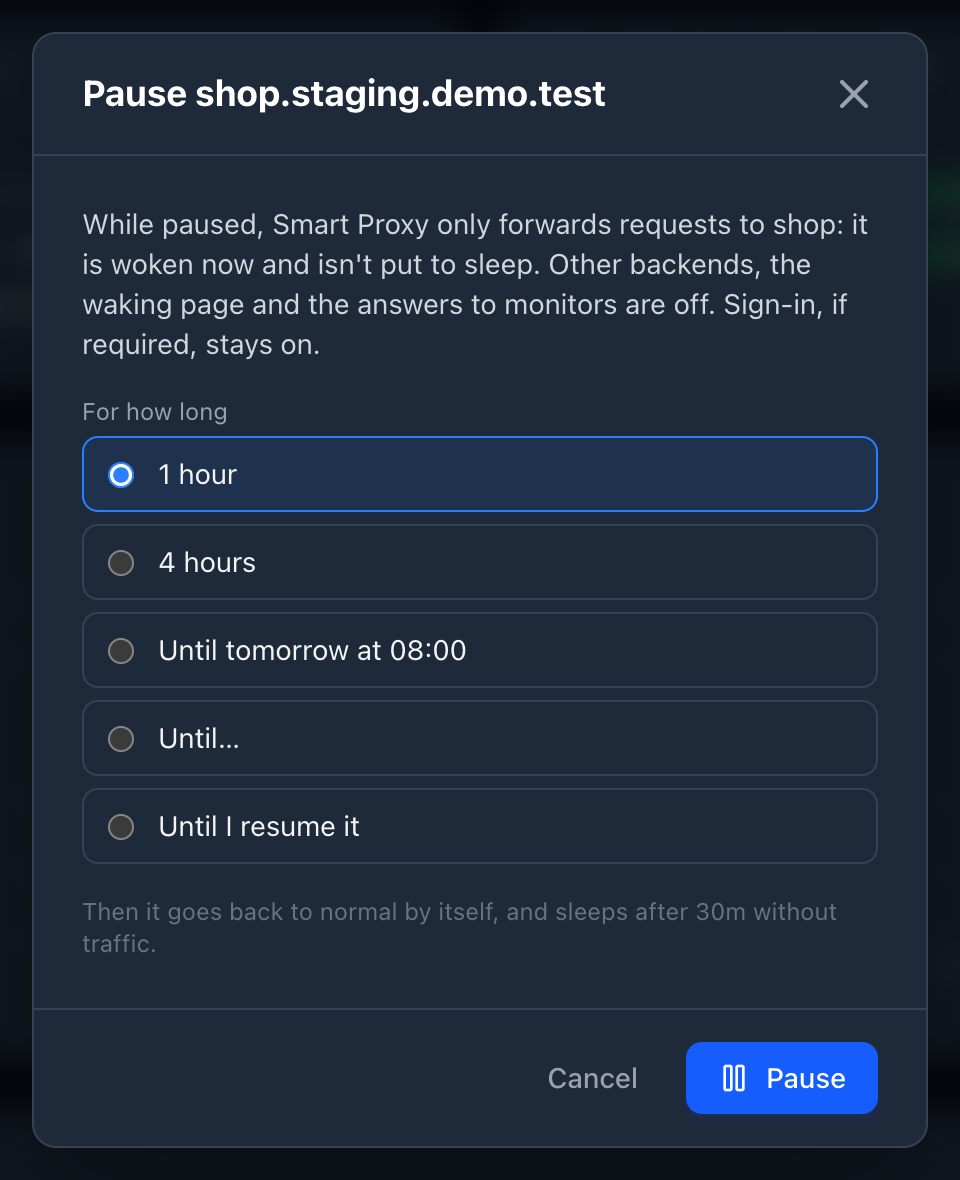
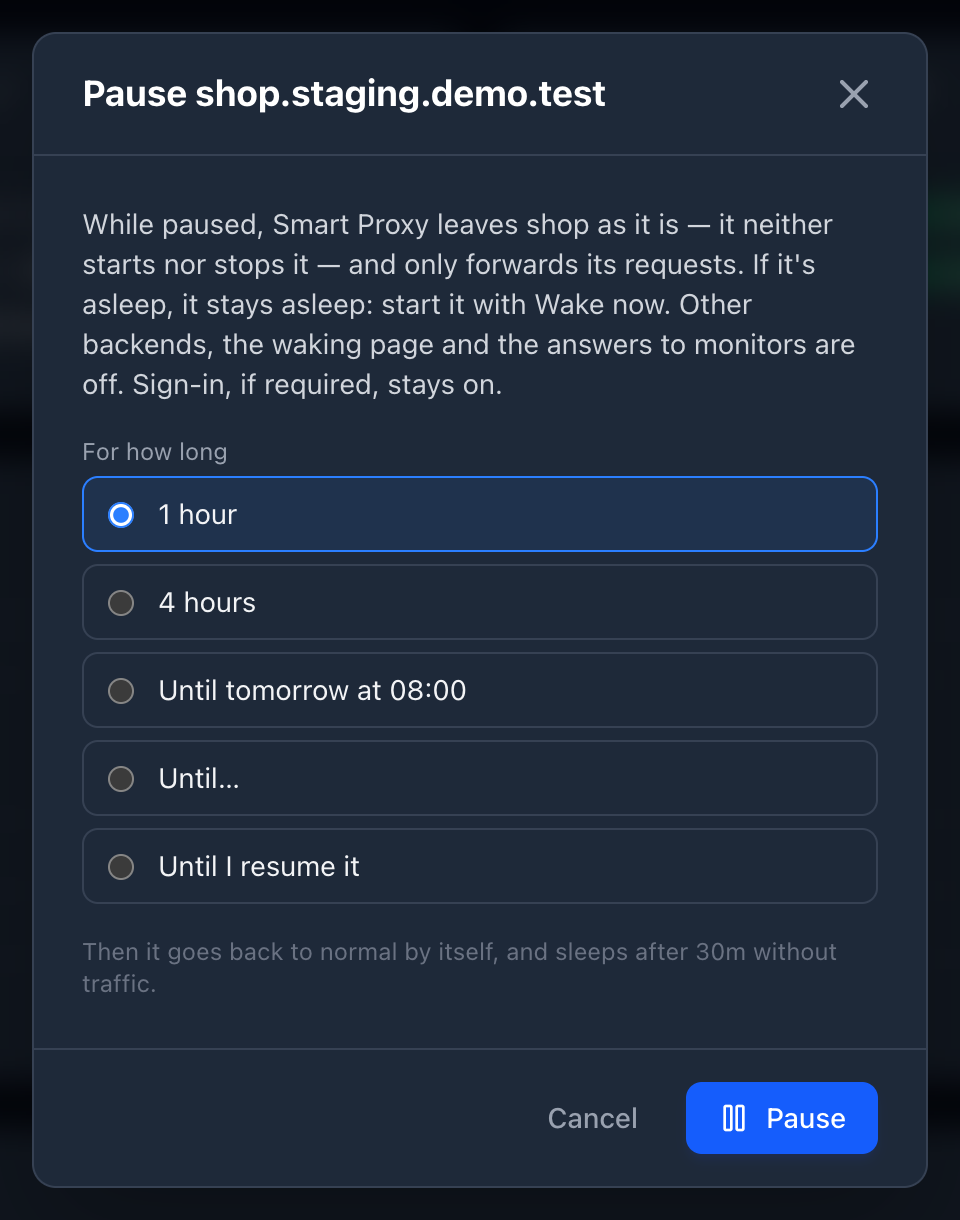
Release 2.8.2 (chart 0.10.2): a pause leaves the application as it is

diff --git a/charts/smart-proxy/README.md b/charts/smart-proxy/README.md
@@ -44,7 +44,7 @@ Common values (see [`values.yaml`](values.yaml) for the full, commented list and
 
 ## Upgrading
 
-See the [upgrade guide](https://ivseb.github.io/smart-proxy/upgrading/). From 0.10.0 to 0.10.1: drop-in. From 0.9.x to 0.10.0: drop-in; with `auth.mode: openshift` the oauth-proxy sidecar is gone (sign-in is built into Smart Proxy). From 0.8.x to 0.9.0: drop-in. From 0.7.x to 0.8.0: drop-in; the uptime history is kept in a new ConfigMap, `<release>-uptime`. From 0.6.x to 0.7.0: drop-in; the image has no shell anymore (use a debug container to troubleshoot). From 0.5.x to 0.6.0: drop-in; deleted routes are kept for 30 days in a new ConfigMap, `<release>-deleted-routes`. From 0.4.x to 0.5.0: Smart Proxy creates its own Secret, `<release>-state` (the chart grants access to it). From 0.3.x to 0.4.0: patched resources outside Smart Proxy's namespace now reach it through a stand-in Service created there (the chart grants the new permissions; on OpenShift installing needs cluster-admin for `endpoints/restricted`). From 0.2.x to 0.3.0: uptime monitors no longer keep applications awake (`ignore.defaultUserAgents: false` restores the old behaviour).
+See the [upgrade guide](https://ivseb.github.io/smart-proxy/upgrading/). From 0.10.1 to 0.10.2: drop-in; a pause no longer wakes the application. From 0.10.0 to 0.10.1: drop-in. From 0.9.x to 0.10.0: drop-in; with `auth.mode: openshift` the oauth-proxy sidecar is gone (sign-in is built into Smart Proxy). From 0.8.x to 0.9.0: drop-in. From 0.7.x to 0.8.0: drop-in; the uptime history is kept in a new ConfigMap, `<release>-uptime`. From 0.6.x to 0.7.0: drop-in; the image has no shell anymore (use a debug container to troubleshoot). From 0.5.x to 0.6.0: drop-in; deleted routes are kept for 30 days in a new ConfigMap, `<release>-deleted-routes`. From 0.4.x to 0.5.0: Smart Proxy creates its own Secret, `<release>-state` (the chart grants access to it). From 0.3.x to 0.4.0: patched resources outside Smart Proxy's namespace now reach it through a stand-in Service created there (the chart grants the new permissions; on OpenShift installing needs cluster-admin for `endpoints/restricted`). From 0.2.x to 0.3.0: uptime monitors no longer keep applications awake (`ignore.defaultUserAgents: false` restores the old behaviour).
 
 ### From 0.1.x
 

diff --git a/docs/upgrading.md b/docs/upgrading.md
@@ -1,5 +1,9 @@
 # Upgrading
 
+## 2.8.2: pauses
+
+A drop-in upgrade (chart 0.10.2). One change in behaviour: **pausing a route no longer wakes its application.** A sleeping application stays asleep during the pause — requests get 503 until someone starts it with **Wake now** — and a running one is still never put to sleep while paused.
+
 ## From 2.7 to 2.8
 
 A drop-in upgrade with the chart (`helm upgrade … --version 0.10.0 -f my-values.yaml`): no values to change, no new permission, nothing changes for existing routes. Blocked hours are off until you set them (Settings, the gear in the dashboard's header). New ConfigMaps, removed with Smart Proxy: `<release>-settings` (blocked hours, holidays, time zone) and `<release>-uptime-year` (the year's history, built from the days already recorded).

diff --git a/CHANGELOG.md b/CHANGELOG.md
@@ -1,6 +1,6 @@
 # Changelog
 
-## Unreleased
+## 2.8.2 — chart 0.10.2
 
 ### Changed
 - **A pause leaves the application as it is.** Pausing a route no longer wakes its application: Smart Proxy neither starts nor stops anything while the pause lasts, and only forwards requests. A sleeping application stays asleep — requests get 503 (`X-Smart-Proxy: paused`) until someone starts it with **Wake now**; a running one is never put to sleep.
